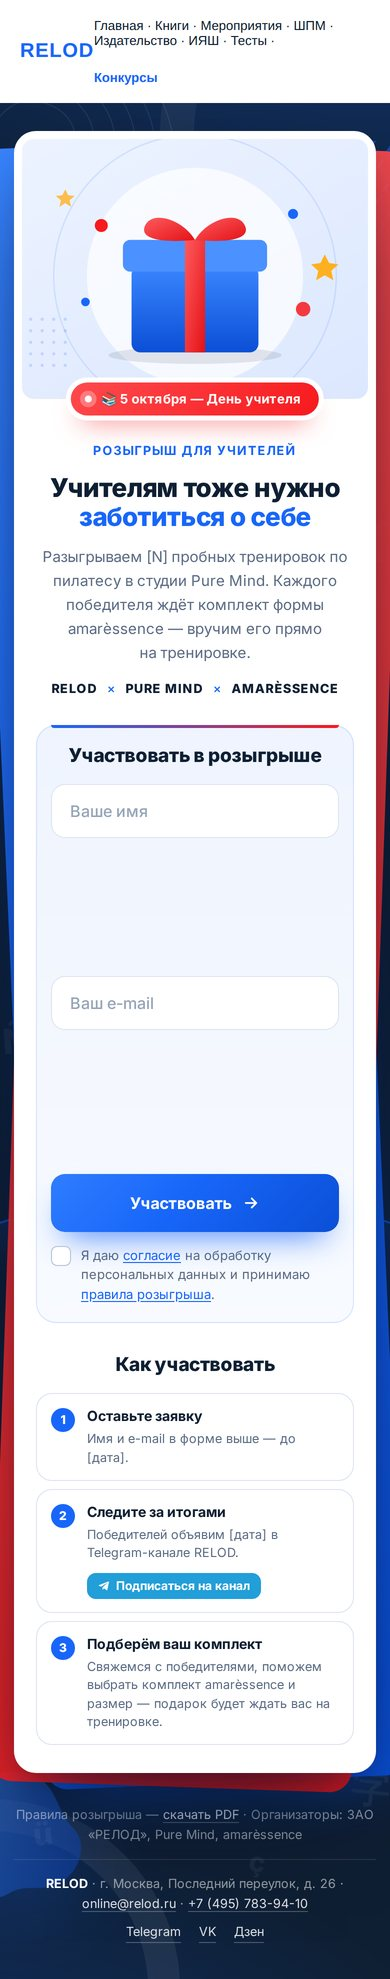
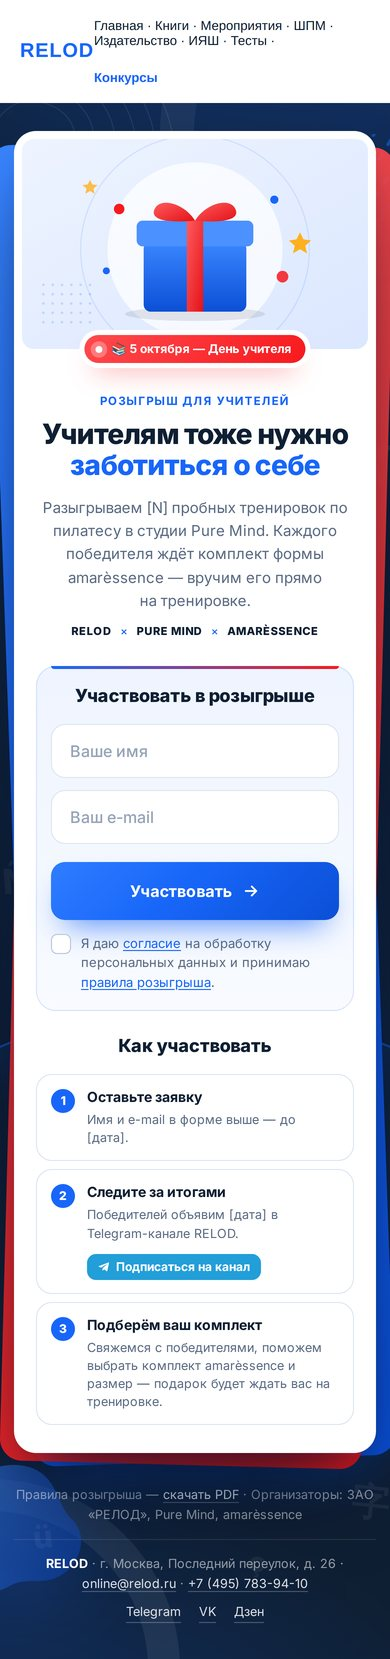
Fix mobile layout of the lead-form landing
- Form fields had flex-basis 180px, which became 180px of height in the
  phone column layout and left huge gaps between inputs; fields are now
  flex: none, and only grow as columns in the row layouts.
- Add a viewport meta tag (and a JS guard that inserts one if the page
  has none) so phones no longer render the block at 980px wide.
- Phones/tablets: shorter image (16/9, capped height), smaller title,
  badge and headings on phones; tablets get the one-row form and three
  steps in a row.

Claude-Session: https://claude.ai/code/session_01PtKNib2DxGrSUvTyvutAJk

diff --git a/tilda-lead-form/preview.html b/tilda-lead-form/preview.html
@@ -28,6 +28,8 @@
   ════════════════════════════════════════════════════════════════════
 -->
 
+<meta name="viewport" content="width=device-width, initial-scale=1">
+
 <div class="lf" id="lf-root" data-form-rec="" data-glyphs="A Ж ß é Ñ 字 Ω あ ü ç">
   <!--
     data-form-rec — ID блока формы, если форм на странице несколько:
@@ -486,7 +488,7 @@ html, body { background: var(--lf-bg) !important; }
 /* ─────────── Форма из HTML ─────────── */
 #lf-root .lf__hf { margin: 0; text-align: left; }
 #lf-root .lf__row { display: flex; flex-direction: column; gap: 12px; }
-#lf-root .lf__field { position: relative; display: block; flex: 1 1 180px; min-width: 0; margin: 0; }
+#lf-root .lf__field { position: relative; display: block; flex: none; min-width: 0; margin: 0; }
 #lf-root .lf__label { position: absolute; width: 1px; height: 1px; overflow: hidden; clip: rect(0 0 0 0); white-space: nowrap; }
 #lf-root .lf__field input {
   display: block;
@@ -659,12 +661,28 @@ html, body { background: var(--lf-bg) !important; }
   #lf-root .lf__formbox::before { left: 24px; right: 24px; }
   #lf-root .lf__formtitle { margin: 0; padding-top: 6px; text-align: left; font-size: 20px; }
   #lf-root .lf__row { flex-direction: row; flex-wrap: wrap; align-items: flex-start; }
+  #lf-root .lf__field { flex: 1 1 180px; }
   #lf-root .lf__btn { height: 54px; margin: 0; }
 
   #lf-root .lf__steps { display: grid; grid-template-columns: 200px minmax(0, 1fr); gap: 0 20px; align-items: start; margin-top: 24px; padding: 0 24px; }
   #lf-root .lf__h2 { margin: 0; padding-top: 14px; text-align: left; font-size: 20px; }
   #lf-root .lf__steps ol { grid-template-columns: repeat(3, minmax(0, 1fr)); gap: 10px; }
   #lf-root .lf__steps li { padding: 46px 16px 16px; }
+}
+
+/* ─────────── Планшеты и телефоны: картинка не съедает первый экран ─────────── */
+@media (max-width: 859px) {
+  #lf-root .lf__img { aspect-ratio: 16 / 9; max-height: 300px; }
+  #lf-root .lf__text { max-width: 520px; }
+}
+
+/* ─────────── Планшеты: форма в строку, шаги в ряд ─────────── */
+@media (min-width: 601px) and (max-width: 859px) {
+  #lf-root .lf__row { flex-direction: row; flex-wrap: wrap; align-items: flex-start; }
+  #lf-root .lf__field { flex: 1 1 180px; }
+  #lf-root .lf__btn { height: 54px; margin: 0; }
+  #lf-root .lf__steps ol { grid-template-columns: repeat(3, minmax(0, 1fr)); gap: 10px; }
+  #lf-root .lf__steps li { padding: 46px 14px 14px; }
 }
 
 /* ─────────── Телефоны ─────────── */
@@ -677,7 +695,16 @@ html, body { background: var(--lf-bg) !important; }
   #lf-root .lf__body { padding: 0 14px 20px; }
   #lf-root .lf__stack::before { transform: rotate(-2.5deg) translate(-4px, 10px); }
   #lf-root .lf__stack::after  { transform: rotate(2deg) translate(4px, 14px); }
-  #lf-root .lf__text { font-size: 15px; }
+  #lf-root .lf__text { font-size: 15px; line-height: 1.55; }
+  #lf-root .lf__img { aspect-ratio: 16 / 10; max-height: 210px; }
+  #lf-root .lf__title { font-size: clamp(24px, 7.2vw, 30px); }
+  #lf-root .lf__badge { padding: 8px 14px 8px 11px; font-size: 12px; }
+  #lf-root .lf__eyebrow { margin-bottom: 10px; font-size: 11.5px; }
+  #lf-root .lf__partners { margin-top: 12px; font-size: 11px; }
+  #lf-root .lf__formtitle, #lf-root .lf__h2 { font-size: 18px; }
+  #lf-root .lf__steps { margin-top: 24px; }
+  #lf-root .lf__stack::before { transform: rotate(-2deg) translate(-3px, 8px); }
+  #lf-root .lf__stack::after  { transform: rotate(1.5deg) translate(3px, 12px); }
   #lf-root .lf__formbox { padding: 18px 14px 18px; }
   #lf-root .lf__formbox::before { left: 14px; right: 14px; }
   #lf-root .lf__stage { gap: 32px; }
@@ -703,6 +730,14 @@ html, body { background: var(--lf-bg) !important; }
 
 <script>
 (function () {
+  /* Мобильная адаптивность: без viewport телефон рисует страницу шириной 980px */
+  if (!document.querySelector('head meta[name="viewport"]')) {
+    var vp = document.createElement('meta');
+    vp.name = 'viewport';
+    vp.content = 'width=device-width, initial-scale=1';
+    document.head.appendChild(vp);
+  }
+
   var root = document.getElementById('lf-root');
   if (!root || root.getAttribute('data-lf-init')) return;
   root.setAttribute('data-lf-init', '1');

diff --git a/tilda-lead-form/t123-lead-form.html b/tilda-lead-form/t123-lead-form.html
@@ -11,6 +11,8 @@
   ════════════════════════════════════════════════════════════════════
 -->
 
+<meta name="viewport" content="width=device-width, initial-scale=1">
+
 <div class="lf" id="lf-root" data-form-rec="" data-glyphs="A Ж ß é Ñ 字 Ω あ ü ç">
   <!--
     data-form-rec — ID блока формы, если форм на странице несколько:
@@ -469,7 +471,7 @@ html, body { background: var(--lf-bg) !important; }
 /* ─────────── Форма из HTML ─────────── */
 #lf-root .lf__hf { margin: 0; text-align: left; }
 #lf-root .lf__row { display: flex; flex-direction: column; gap: 12px; }
-#lf-root .lf__field { position: relative; display: block; flex: 1 1 180px; min-width: 0; margin: 0; }
+#lf-root .lf__field { position: relative; display: block; flex: none; min-width: 0; margin: 0; }
 #lf-root .lf__label { position: absolute; width: 1px; height: 1px; overflow: hidden; clip: rect(0 0 0 0); white-space: nowrap; }
 #lf-root .lf__field input {
   display: block;
@@ -642,12 +644,28 @@ html, body { background: var(--lf-bg) !important; }
   #lf-root .lf__formbox::before { left: 24px; right: 24px; }
   #lf-root .lf__formtitle { margin: 0; padding-top: 6px; text-align: left; font-size: 20px; }
   #lf-root .lf__row { flex-direction: row; flex-wrap: wrap; align-items: flex-start; }
+  #lf-root .lf__field { flex: 1 1 180px; }
   #lf-root .lf__btn { height: 54px; margin: 0; }
 
   #lf-root .lf__steps { display: grid; grid-template-columns: 200px minmax(0, 1fr); gap: 0 20px; align-items: start; margin-top: 24px; padding: 0 24px; }
   #lf-root .lf__h2 { margin: 0; padding-top: 14px; text-align: left; font-size: 20px; }
   #lf-root .lf__steps ol { grid-template-columns: repeat(3, minmax(0, 1fr)); gap: 10px; }
   #lf-root .lf__steps li { padding: 46px 16px 16px; }
+}
+
+/* ─────────── Планшеты и телефоны: картинка не съедает первый экран ─────────── */
+@media (max-width: 859px) {
+  #lf-root .lf__img { aspect-ratio: 16 / 9; max-height: 300px; }
+  #lf-root .lf__text { max-width: 520px; }
+}
+
+/* ─────────── Планшеты: форма в строку, шаги в ряд ─────────── */
+@media (min-width: 601px) and (max-width: 859px) {
+  #lf-root .lf__row { flex-direction: row; flex-wrap: wrap; align-items: flex-start; }
+  #lf-root .lf__field { flex: 1 1 180px; }
+  #lf-root .lf__btn { height: 54px; margin: 0; }
+  #lf-root .lf__steps ol { grid-template-columns: repeat(3, minmax(0, 1fr)); gap: 10px; }
+  #lf-root .lf__steps li { padding: 46px 14px 14px; }
 }
 
 /* ─────────── Телефоны ─────────── */
@@ -660,7 +678,16 @@ html, body { background: var(--lf-bg) !important; }
   #lf-root .lf__body { padding: 0 14px 20px; }
   #lf-root .lf__stack::before { transform: rotate(-2.5deg) translate(-4px, 10px); }
   #lf-root .lf__stack::after  { transform: rotate(2deg) translate(4px, 14px); }
-  #lf-root .lf__text { font-size: 15px; }
+  #lf-root .lf__text { font-size: 15px; line-height: 1.55; }
+  #lf-root .lf__img { aspect-ratio: 16 / 10; max-height: 210px; }
+  #lf-root .lf__title { font-size: clamp(24px, 7.2vw, 30px); }
+  #lf-root .lf__badge { padding: 8px 14px 8px 11px; font-size: 12px; }
+  #lf-root .lf__eyebrow { margin-bottom: 10px; font-size: 11.5px; }
+  #lf-root .lf__partners { margin-top: 12px; font-size: 11px; }
+  #lf-root .lf__formtitle, #lf-root .lf__h2 { font-size: 18px; }
+  #lf-root .lf__steps { margin-top: 24px; }
+  #lf-root .lf__stack::before { transform: rotate(-2deg) translate(-3px, 8px); }
+  #lf-root .lf__stack::after  { transform: rotate(1.5deg) translate(3px, 12px); }
   #lf-root .lf__formbox { padding: 18px 14px 18px; }
   #lf-root .lf__formbox::before { left: 14px; right: 14px; }
   #lf-root .lf__stage { gap: 32px; }
@@ -686,6 +713,14 @@ html, body { background: var(--lf-bg) !important; }
 
 <script>
 (function () {
+  /* Мобильная адаптивность: без viewport телефон рисует страницу шириной 980px */
+  if (!document.querySelector('head meta[name="viewport"]')) {
+    var vp = document.createElement('meta');
+    vp.name = 'viewport';
+    vp.content = 'width=device-width, initial-scale=1';
+    document.head.appendChild(vp);
+  }
+
   var root = document.getElementById('lf-root');
   if (!root || root.getAttribute('data-lf-init')) return;
   root.setAttribute('data-lf-init', '1');
